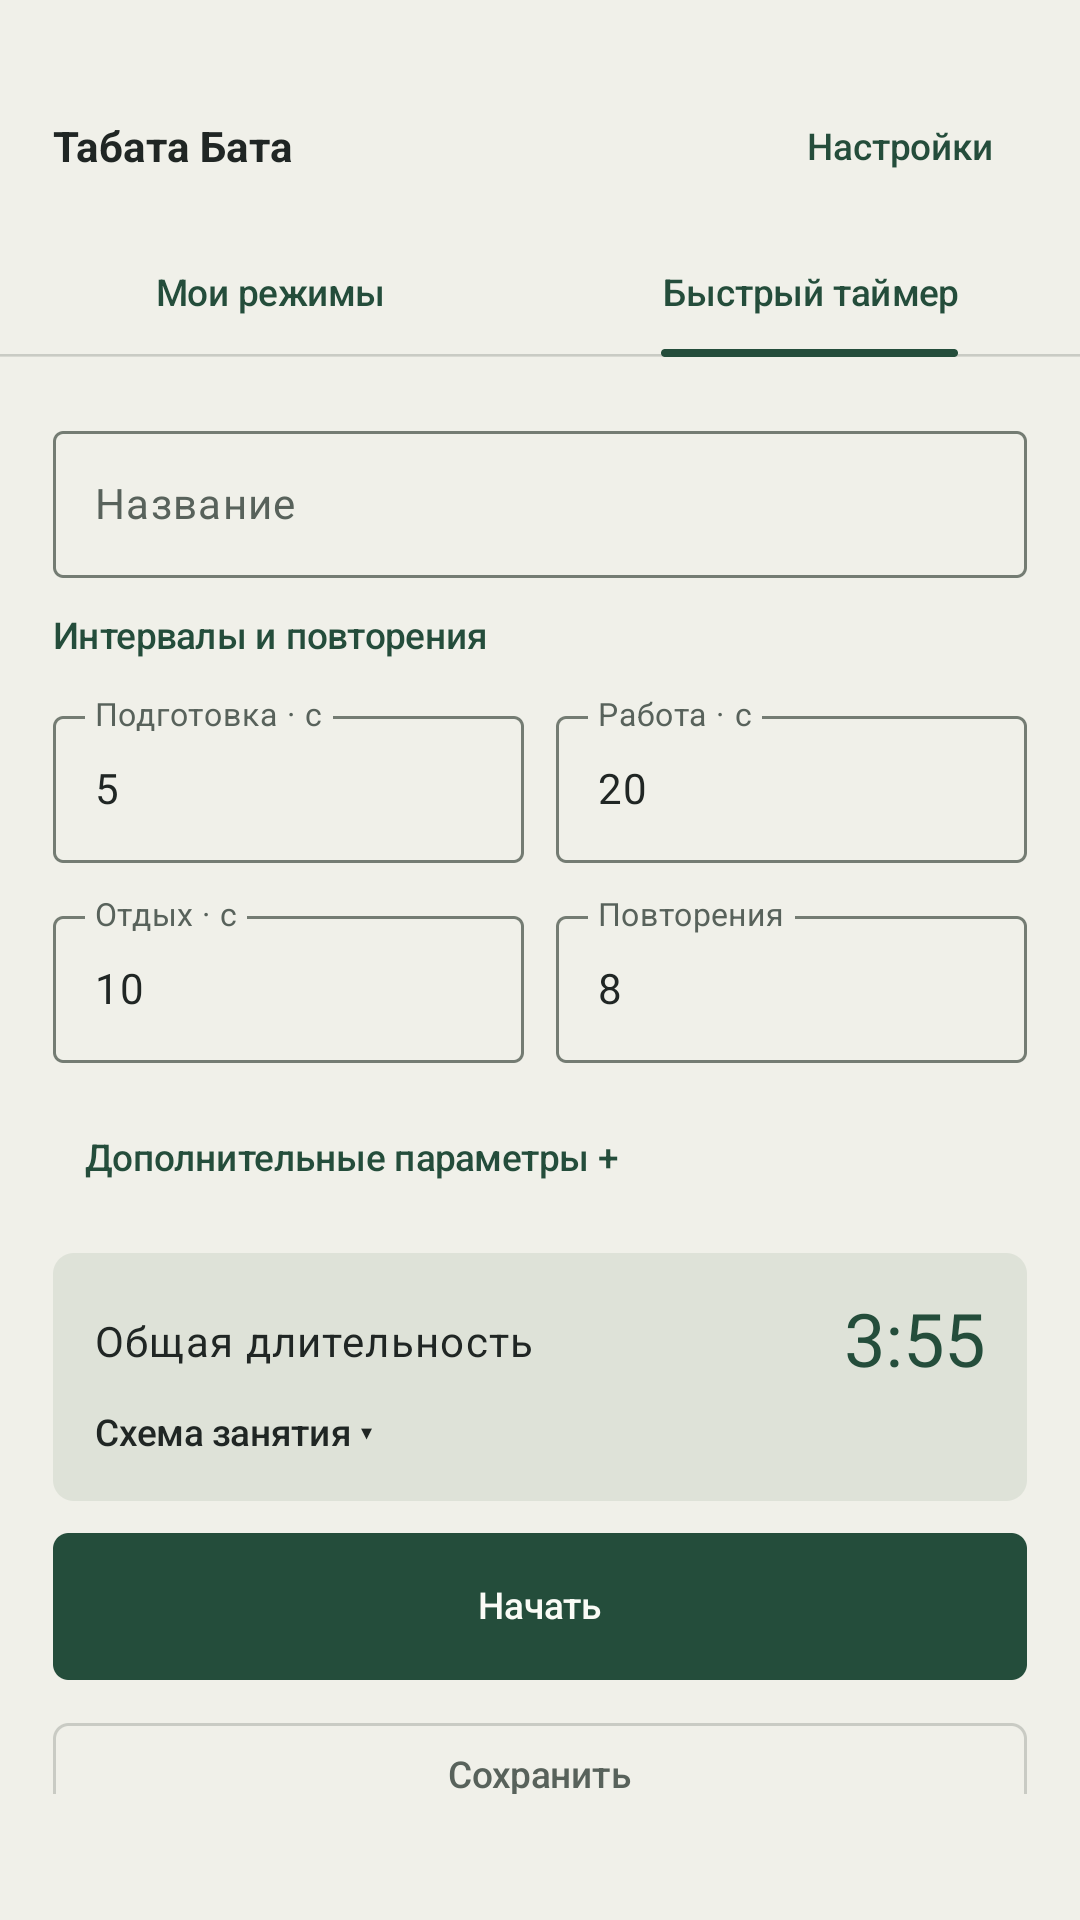
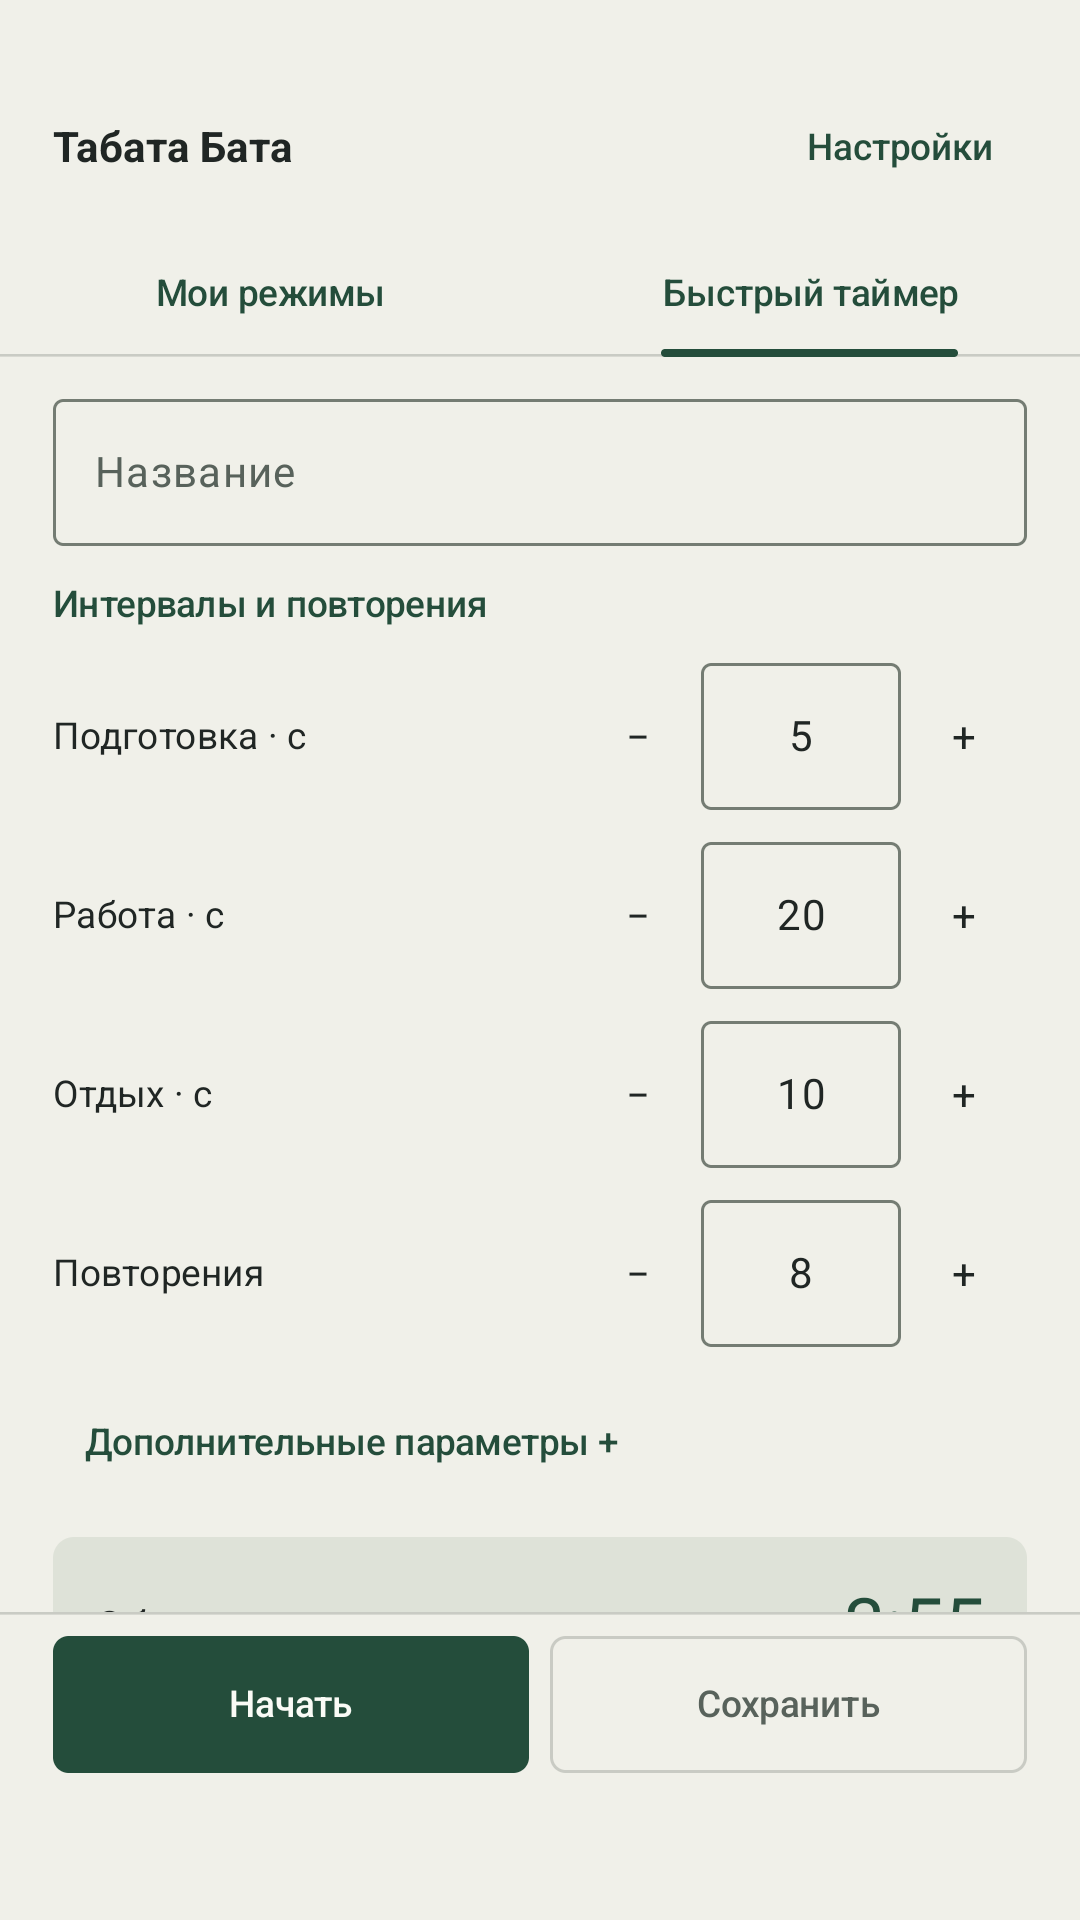
Record verified 0.2.0 UX changes and actual Android screenshots [skip ci]

diff --git a/docs/ROADMAP.md b/docs/ROADMAP.md
@@ -20,3 +20,14 @@
 Последний отдых по умолчанию пропускается. Между сериями используется только отдых между сериями. Пауза сохраняет точный остаток; переход начинает выбранный этап целиком. Переход далее с последнего этапа завершает таймер. После существенной задержки не проигрываем очередь пропущенных сигналов. Отключение наушников ставит на паузу. Уничтожение процесса/перезагрузка не возобновляют занятие автоматически. Сохранённый остаток после аварийного прерывания имеет точность до интервала checkpoint (1 секунда).
 
 Реклама: баннер в режимах/результате; interstitial только после завершённой тренировки, не первой, максимум один показ в 24 часа. Нет рекламы на редакторе/старте/подготовке/работе/отдыхе/паузе. Нет rewarded. Отсутствие рекламы/интернета не блокирует приложение.
+
+## UX-проход 0.2.0 — 15 октября
+
+- Экран занятия: большие системные цифры без `0:` на коротких интервалах; цвет всего экрана обозначает этап. Глубокие оттенки в тёмной теме. Отдельная landscape-компоновка, без прокрутки управления.
+- Компактная пауза, номер повтора, серии только при нескольких сериях; переходы заблокированы вместе с остальным управлением. Разблокировка удержанием, остановка с подтверждением.
+- Следующие три этапа опциональны, по умолчанию скрыты. На landscape приоритет отдан цифрам и управлению.
+- Редактор: строки с единицами, кнопки ±1 и прямой ввод, закреплённые старт/сохранение. Дополнительные параметры свёрнуты.
+- При наличии своих режимов они идут первыми, готовая табата доступна компактной кнопкой после списка. Работа/отдых/повторы подписаны словами.
+- Настройки сгруппированы; сигналы работы, отдыха и завершения можно прослушать отдельно.
+
+История, голосовой тренер, произвольные последовательности и новые интеграции не входят в этот проход. Аппаратные проверки и данные для публикации остаются открытыми в RELEASE.md.

diff --git a/docs/VALIDATION.md b/docs/VALIDATION.md
@@ -46,6 +46,16 @@ GitHub Actions [38624650474](https://github.com/DanilaH/tabata-bata/actions/runs
 
 Ограничения: короткий screen-off прогон не подтверждает 30–60 минут работы на реальном телефоне; same-version reinstall не является проверкой миграции между версиями. Аппаратная слышимость, Bluetooth, музыка/звонки, TalkBack, перезагрузка устройства, доставка AppMetrica и demo-реклама здесь не проверялись.
 
+## UX 0.2.0 — 15 октября
+
+GitHub Actions [38698503070](https://github.com/DanilaH/tabata-bata/actions/runs/38698503070): итоговый PASS. 13 unit tests, по 9 инструментированных тестов на Android 15/16; lint, debug и release сборки PASS. APK versionCode=2, versionName=0.2.0, подписан прежним production-ключом; apksigner verify PASS.
+
+Новые проверки: формат короткого отсчёта и границы минуты/часа; ±1 в редакторе с проверкой изменённого значения; работа/отдых/пауза в обеих темах; блокировка кнопки продолжения и переходов, разблокировка удержанием; сохранены fontScale 150%/landscape, фон, уведомления, recovery, force-stop и same-version reinstall. Скриншоты editor/work/rest/locked/saved/settings и landscape просмотрены. Следующие этапы по умолчанию скрыты; в landscape приоритет у отсчёта и управления.
+
+В первой попытке API 36 все 9 тестов приложения прошли, но отдельный adb-сценарий перекрыл системный ANR «Quickstep isn't responding». Сохранённый UI XML показал диалог лаунчера. Повтор только упавшего job на свежем эмуляторе завершился успешно. Ошибок приложения в этом прогоне не обнаружено; это не доказательство физической аудионадёжности.
+
+Реальные AppMetrica/рекламные IDs по-прежнему пустые. Межверсионное обновление на физическом устройстве, Bluetooth, музыка/звонки, длительный фон и TalkBack остаются непроверенными.
+
 ## Осталось перед production
 
 - Xiaomi/HyperOS и ещё один реальный Android: выключенный экран 30–60 минут, короткие интервалы, фон.
